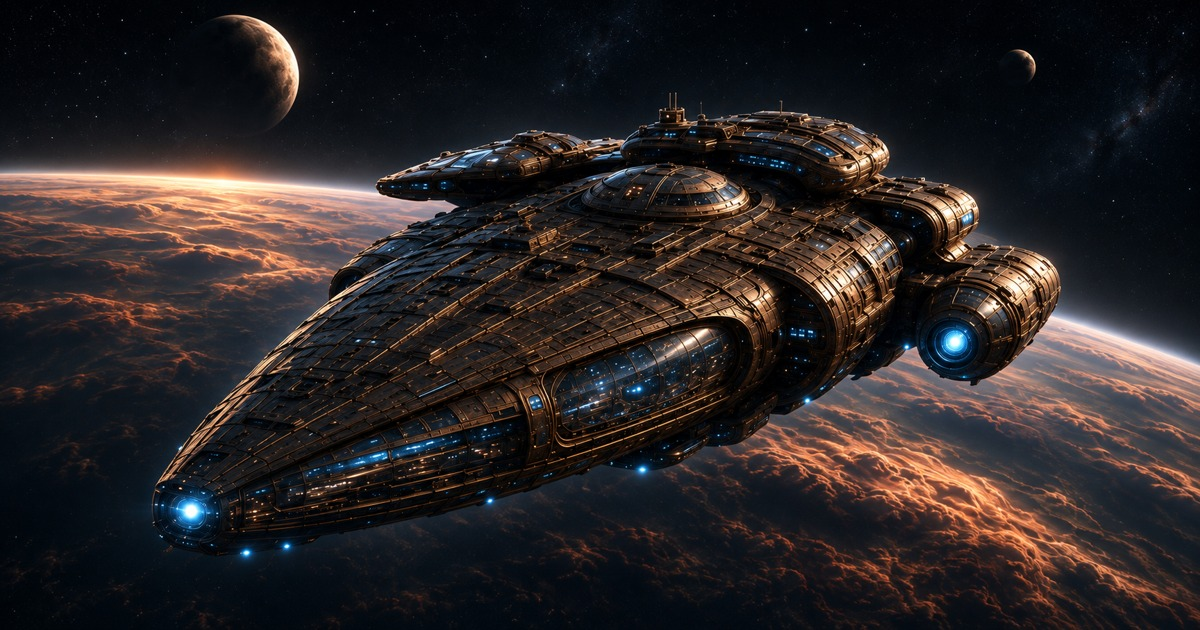
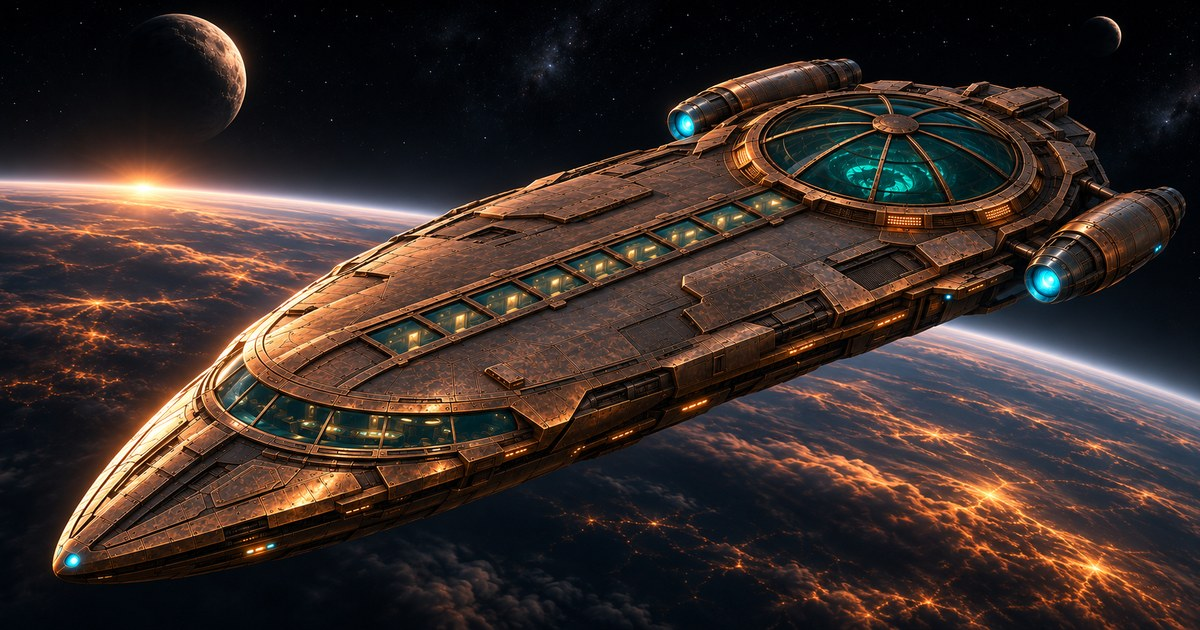
New share image from the user's Wayfarer art (1200x630)
Claude-Session: https://claude.ai/code/session_015swmRW9rk9HZt8JyLRwsXT

diff --git a/minigame.html b/minigame.html
@@ -15,10 +15,10 @@
   <meta property="og:type" content="website">
   <meta property="og:title" content="SS Wayfarer — Flight Mode">
   <meta property="og:url" content="https://spawnshark.github.io/aspentrail/minigame.html">
-  <meta property="og:image" content="https://spawnshark.github.io/aspentrail/images/wayfarer-share.jpg">
+  <meta property="og:image" content="https://spawnshark.github.io/aspentrail/images/wayfarer-share.jpg?v=2">
   <meta property="og:image:width" content="1200">
   <meta property="og:image:height" content="630">
-  <meta property="og:image:alt" content="The bronze SS Wayfarer in orbit above a sunlit planet.">
+  <meta property="og:image:alt" content="The copper SS Wayfarer, its teal library dome glowing, cruising above a night-side planet.">
   <meta name="twitter:card" content="summary_large_image">
   <script src="https://cdnjs.cloudflare.com/ajax/libs/three.js/r128/three.min.js"></script>
   <script src="https://cdn.jsdelivr.net/npm/three@0.128.0/examples/js/loaders/GLTFLoader.js"></script>

diff --git a/bridge.html b/bridge.html
@@ -15,10 +15,10 @@
   <meta property="og:type" content="website">
   <meta property="og:title" content="SS Wayfarer — Command Bridge">
   <meta property="og:url" content="https://spawnshark.github.io/aspentrail/bridge.html">
-  <meta property="og:image" content="https://spawnshark.github.io/aspentrail/images/wayfarer-share.jpg">
+  <meta property="og:image" content="https://spawnshark.github.io/aspentrail/images/wayfarer-share.jpg?v=2">
   <meta property="og:image:width" content="1200">
   <meta property="og:image:height" content="630">
-  <meta property="og:image:alt" content="The bronze SS Wayfarer in orbit above a sunlit planet.">
+  <meta property="og:image:alt" content="The copper SS Wayfarer, its teal library dome glowing, cruising above a night-side planet.">
   <meta name="twitter:card" content="summary_large_image">
   <script src="https://aframe.io/releases/1.5.0/aframe.min.js"></script>
   <script src="mobile.js?v=20261125o"></script>

diff --git a/lounge.html b/lounge.html
@@ -15,10 +15,10 @@
   <meta property="og:type" content="website">
   <meta property="og:title" content="SS Wayfarer — Crew Lounge">
   <meta property="og:url" content="https://spawnshark.github.io/aspentrail/lounge.html">
-  <meta property="og:image" content="https://spawnshark.github.io/aspentrail/images/wayfarer-share.jpg">
+  <meta property="og:image" content="https://spawnshark.github.io/aspentrail/images/wayfarer-share.jpg?v=2">
   <meta property="og:image:width" content="1200">
   <meta property="og:image:height" content="630">
-  <meta property="og:image:alt" content="The bronze SS Wayfarer in orbit above a sunlit planet.">
+  <meta property="og:image:alt" content="The copper SS Wayfarer, its teal library dome glowing, cruising above a night-side planet.">
   <meta name="twitter:card" content="summary_large_image">
   <script src="textures.js?v=20261125o"></script>
   <script src="https://aframe.io/releases/1.5.0/aframe.min.js"></script>

diff --git a/media.html b/media.html
@@ -15,10 +15,10 @@
   <meta property="og:type" content="website">
   <meta property="og:title" content="SS Wayfarer — Media Nexus">
   <meta property="og:url" content="https://spawnshark.github.io/aspentrail/media.html">
-  <meta property="og:image" content="https://spawnshark.github.io/aspentrail/images/wayfarer-share.jpg">
+  <meta property="og:image" content="https://spawnshark.github.io/aspentrail/images/wayfarer-share.jpg?v=2">
   <meta property="og:image:width" content="1200">
   <meta property="og:image:height" content="630">
-  <meta property="og:image:alt" content="The bronze SS Wayfarer in orbit above a sunlit planet.">
+  <meta property="og:image:alt" content="The copper SS Wayfarer, its teal library dome glowing, cruising above a night-side planet.">
   <meta name="twitter:card" content="summary_large_image">
   <script src="https://aframe.io/releases/1.5.0/aframe.min.js"></script>
   <script src="mobile.js?v=20261125o"></script>

diff --git a/library.html b/library.html
@@ -15,10 +15,10 @@
   <meta property="og:type" content="website">
   <meta property="og:title" content="SS Wayfarer — The Library">
   <meta property="og:url" content="https://spawnshark.github.io/aspentrail/library.html">
-  <meta property="og:image" content="https://spawnshark.github.io/aspentrail/images/wayfarer-share.jpg">
+  <meta property="og:image" content="https://spawnshark.github.io/aspentrail/images/wayfarer-share.jpg?v=2">
   <meta property="og:image:width" content="1200">
   <meta property="og:image:height" content="630">
-  <meta property="og:image:alt" content="The bronze SS Wayfarer in orbit above a sunlit planet.">
+  <meta property="og:image:alt" content="The copper SS Wayfarer, its teal library dome glowing, cruising above a night-side planet.">
   <meta name="twitter:card" content="summary_large_image">
   <meta name="theme-color" content="#000208">
   <meta name="apple-mobile-web-app-capable" content="yes">

diff --git a/index.html b/index.html
@@ -15,10 +15,10 @@
   <meta property="og:type" content="website">
   <meta property="og:title" content="SS Wayfarer">
   <meta property="og:url" content="https://spawnshark.github.io/aspentrail/">
-  <meta property="og:image" content="https://spawnshark.github.io/aspentrail/images/wayfarer-share.jpg">
+  <meta property="og:image" content="https://spawnshark.github.io/aspentrail/images/wayfarer-share.jpg?v=2">
   <meta property="og:image:width" content="1200">
   <meta property="og:image:height" content="630">
-  <meta property="og:image:alt" content="The bronze SS Wayfarer in orbit above a sunlit planet.">
+  <meta property="og:image:alt" content="The copper SS Wayfarer, its teal library dome glowing, cruising above a night-side planet.">
   <meta name="twitter:card" content="summary_large_image">
   <script src="textures.js?v=20261125o"></script>
   <script src="https://aframe.io/releases/1.5.0/aframe.min.js"></script>

diff --git a/holodeck.html b/holodeck.html
@@ -15,10 +15,10 @@
   <meta property="og:type" content="website">
   <meta property="og:title" content="SS Wayfarer — Holodeck">
   <meta property="og:url" content="https://spawnshark.github.io/aspentrail/holodeck.html">
-  <meta property="og:image" content="https://spawnshark.github.io/aspentrail/images/wayfarer-share.jpg">
+  <meta property="og:image" content="https://spawnshark.github.io/aspentrail/images/wayfarer-share.jpg?v=2">
   <meta property="og:image:width" content="1200">
   <meta property="og:image:height" content="630">
-  <meta property="og:image:alt" content="The bronze SS Wayfarer in orbit above a sunlit planet.">
+  <meta property="og:image:alt" content="The copper SS Wayfarer, its teal library dome glowing, cruising above a night-side planet.">
   <meta name="twitter:card" content="summary_large_image">
   <script>
     // Grid texture (amber lines on black) — generated before A-Frame loads

diff --git a/CLAUDE.md b/CLAUDE.md
@@ -219,7 +219,8 @@ Rules drawn from them:
   Garden). HOUSE PLANNER is its own wall terminal on the port wall (x=−9): live blueprint preview, tap → 2D planner
   (user, Nov 24). Furniture placements are NOT saved between visits yet. The 2D blueprint planner and Star Garden code are unchanged.
 - **Icons** — Nov 25: the user's new SS WAYFARER art (reference/app-icon-source-v2.png, frame cropped) at 1024/512/192/180 + favicon,
-  linked with ?v=2 to beat icon caches; share image unchanged.
+  linked with ?v=2 to beat icon caches. Share image (Nov 25): user's new art (reference/share-image-source.jpg) cropped to
+  images/wayfarer-share.jpg 1200×630, og:image ?v=2.
 
 ## What's next (agreed order: restyle room by room to the reference)
 1. Media Nexus live channels — needs a YouTube Data API key from the user (a key in a Pages site is public:
